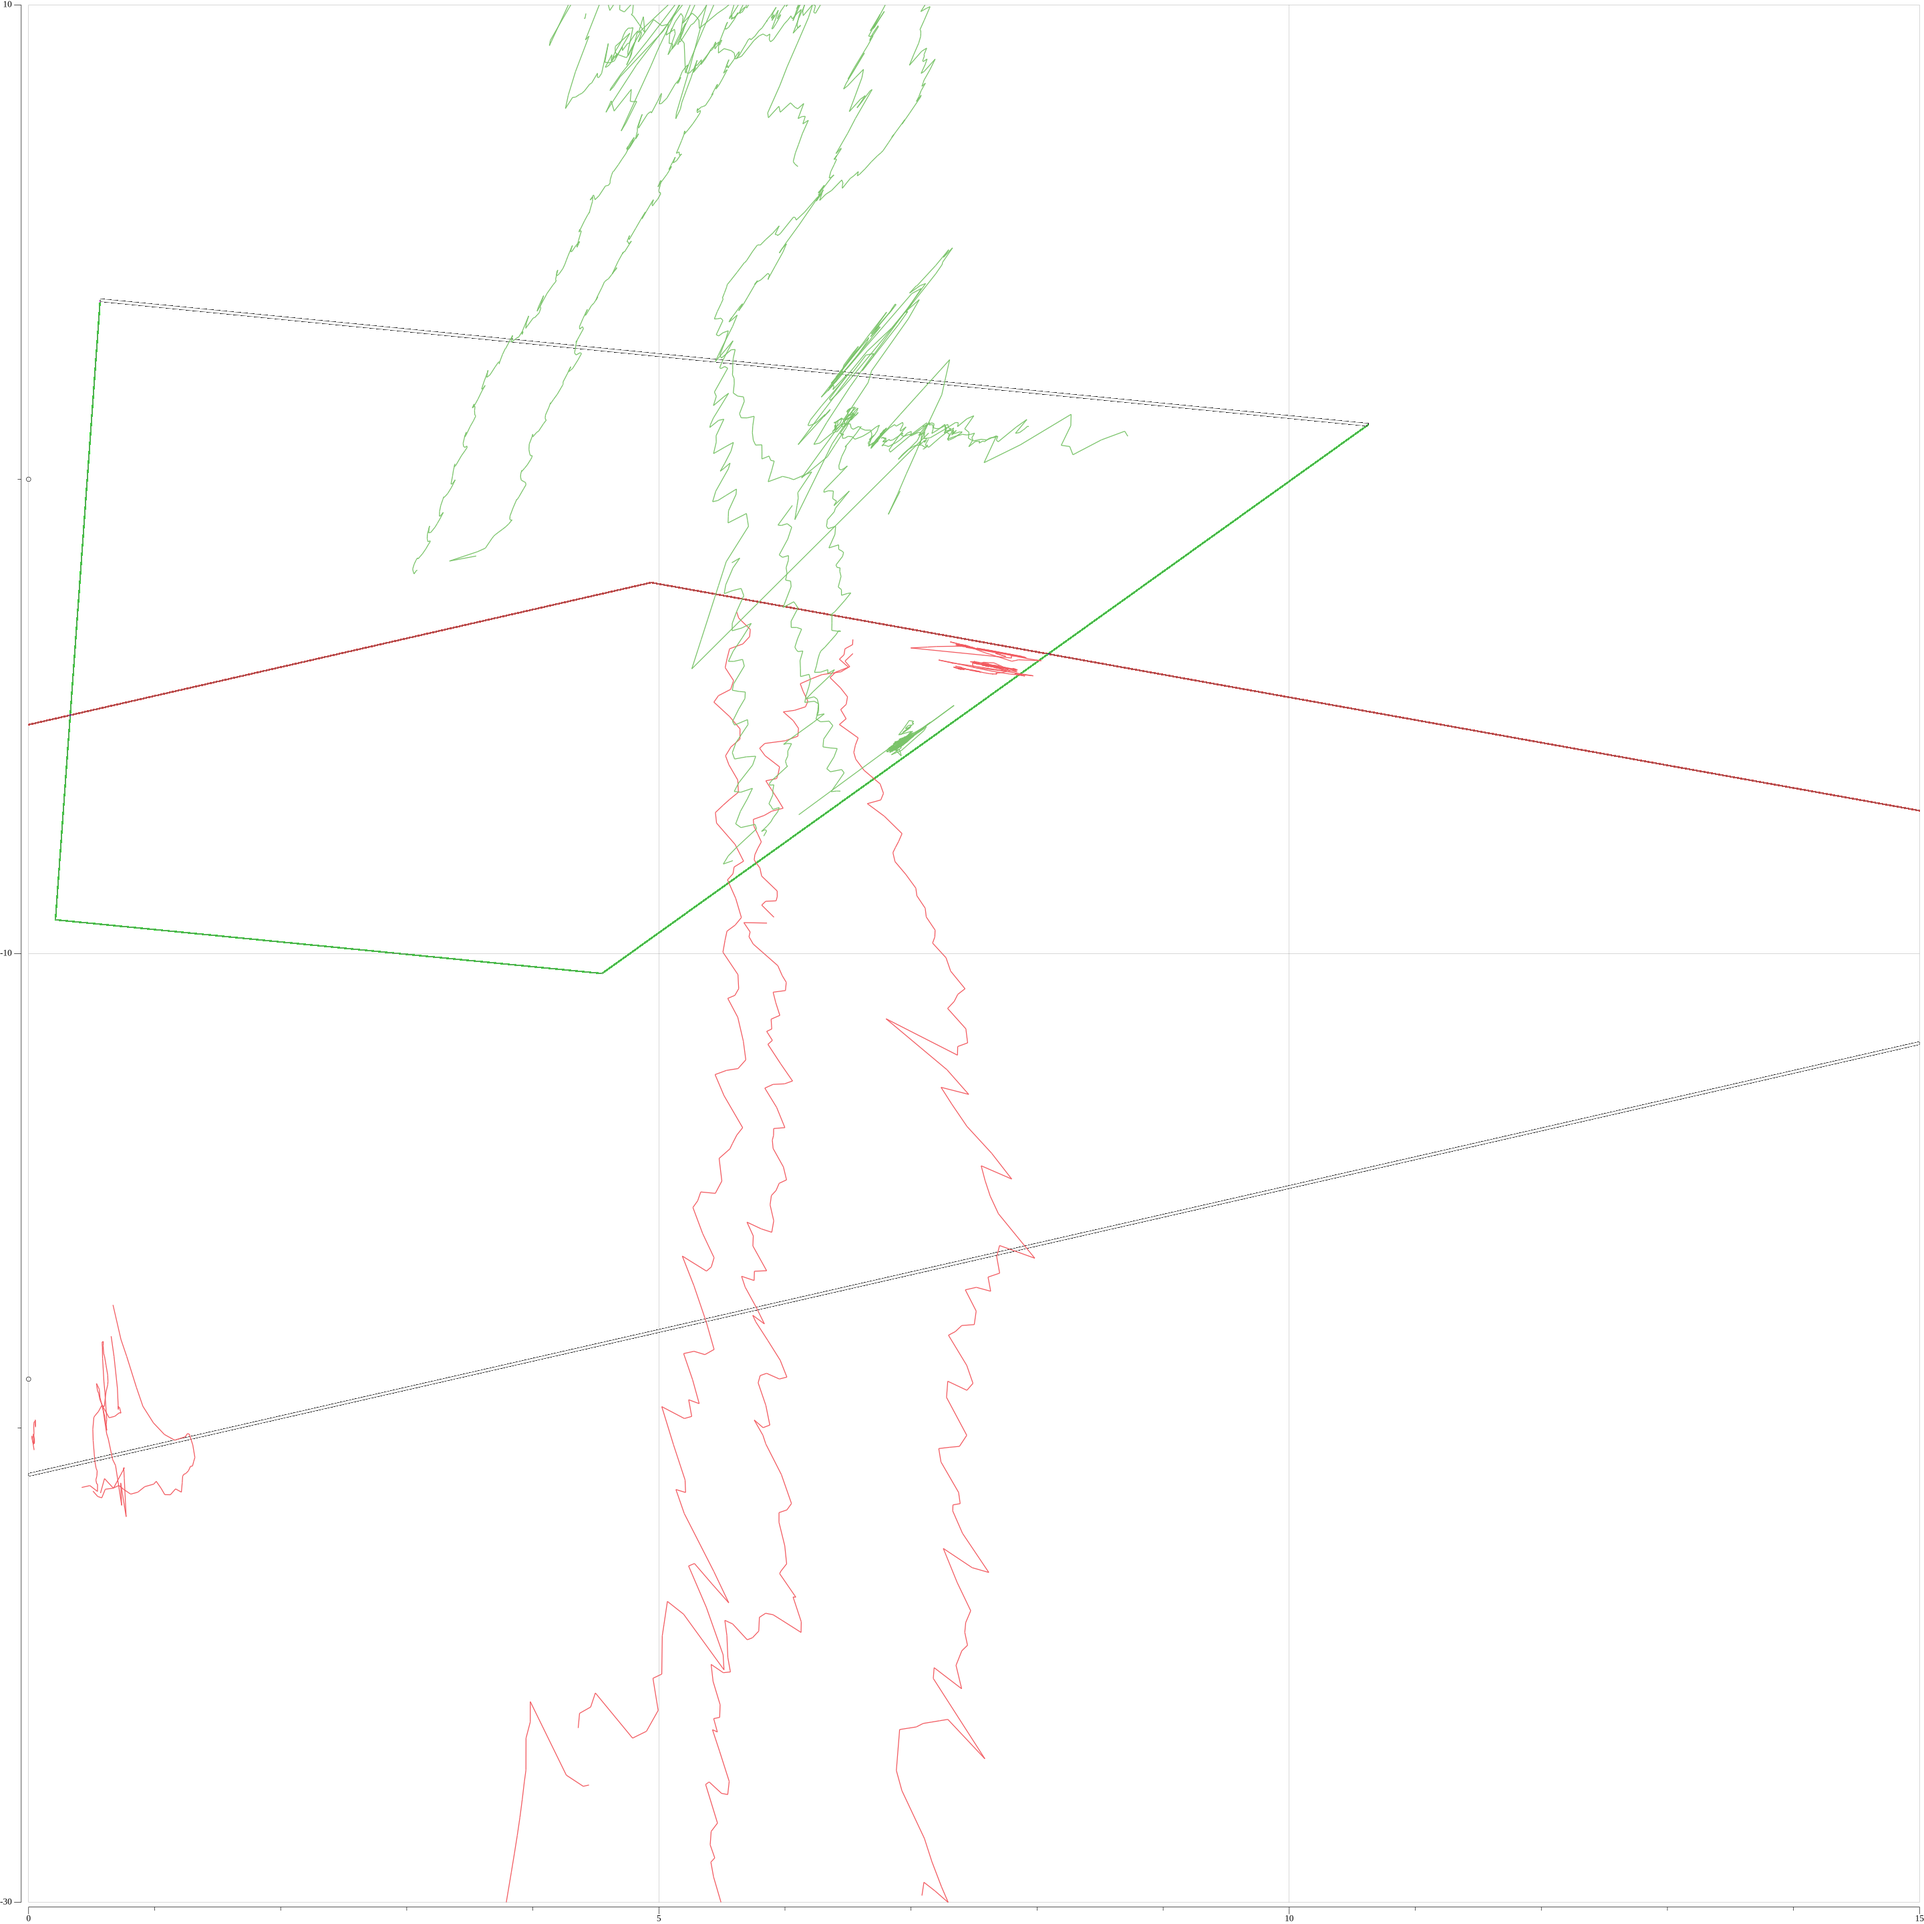
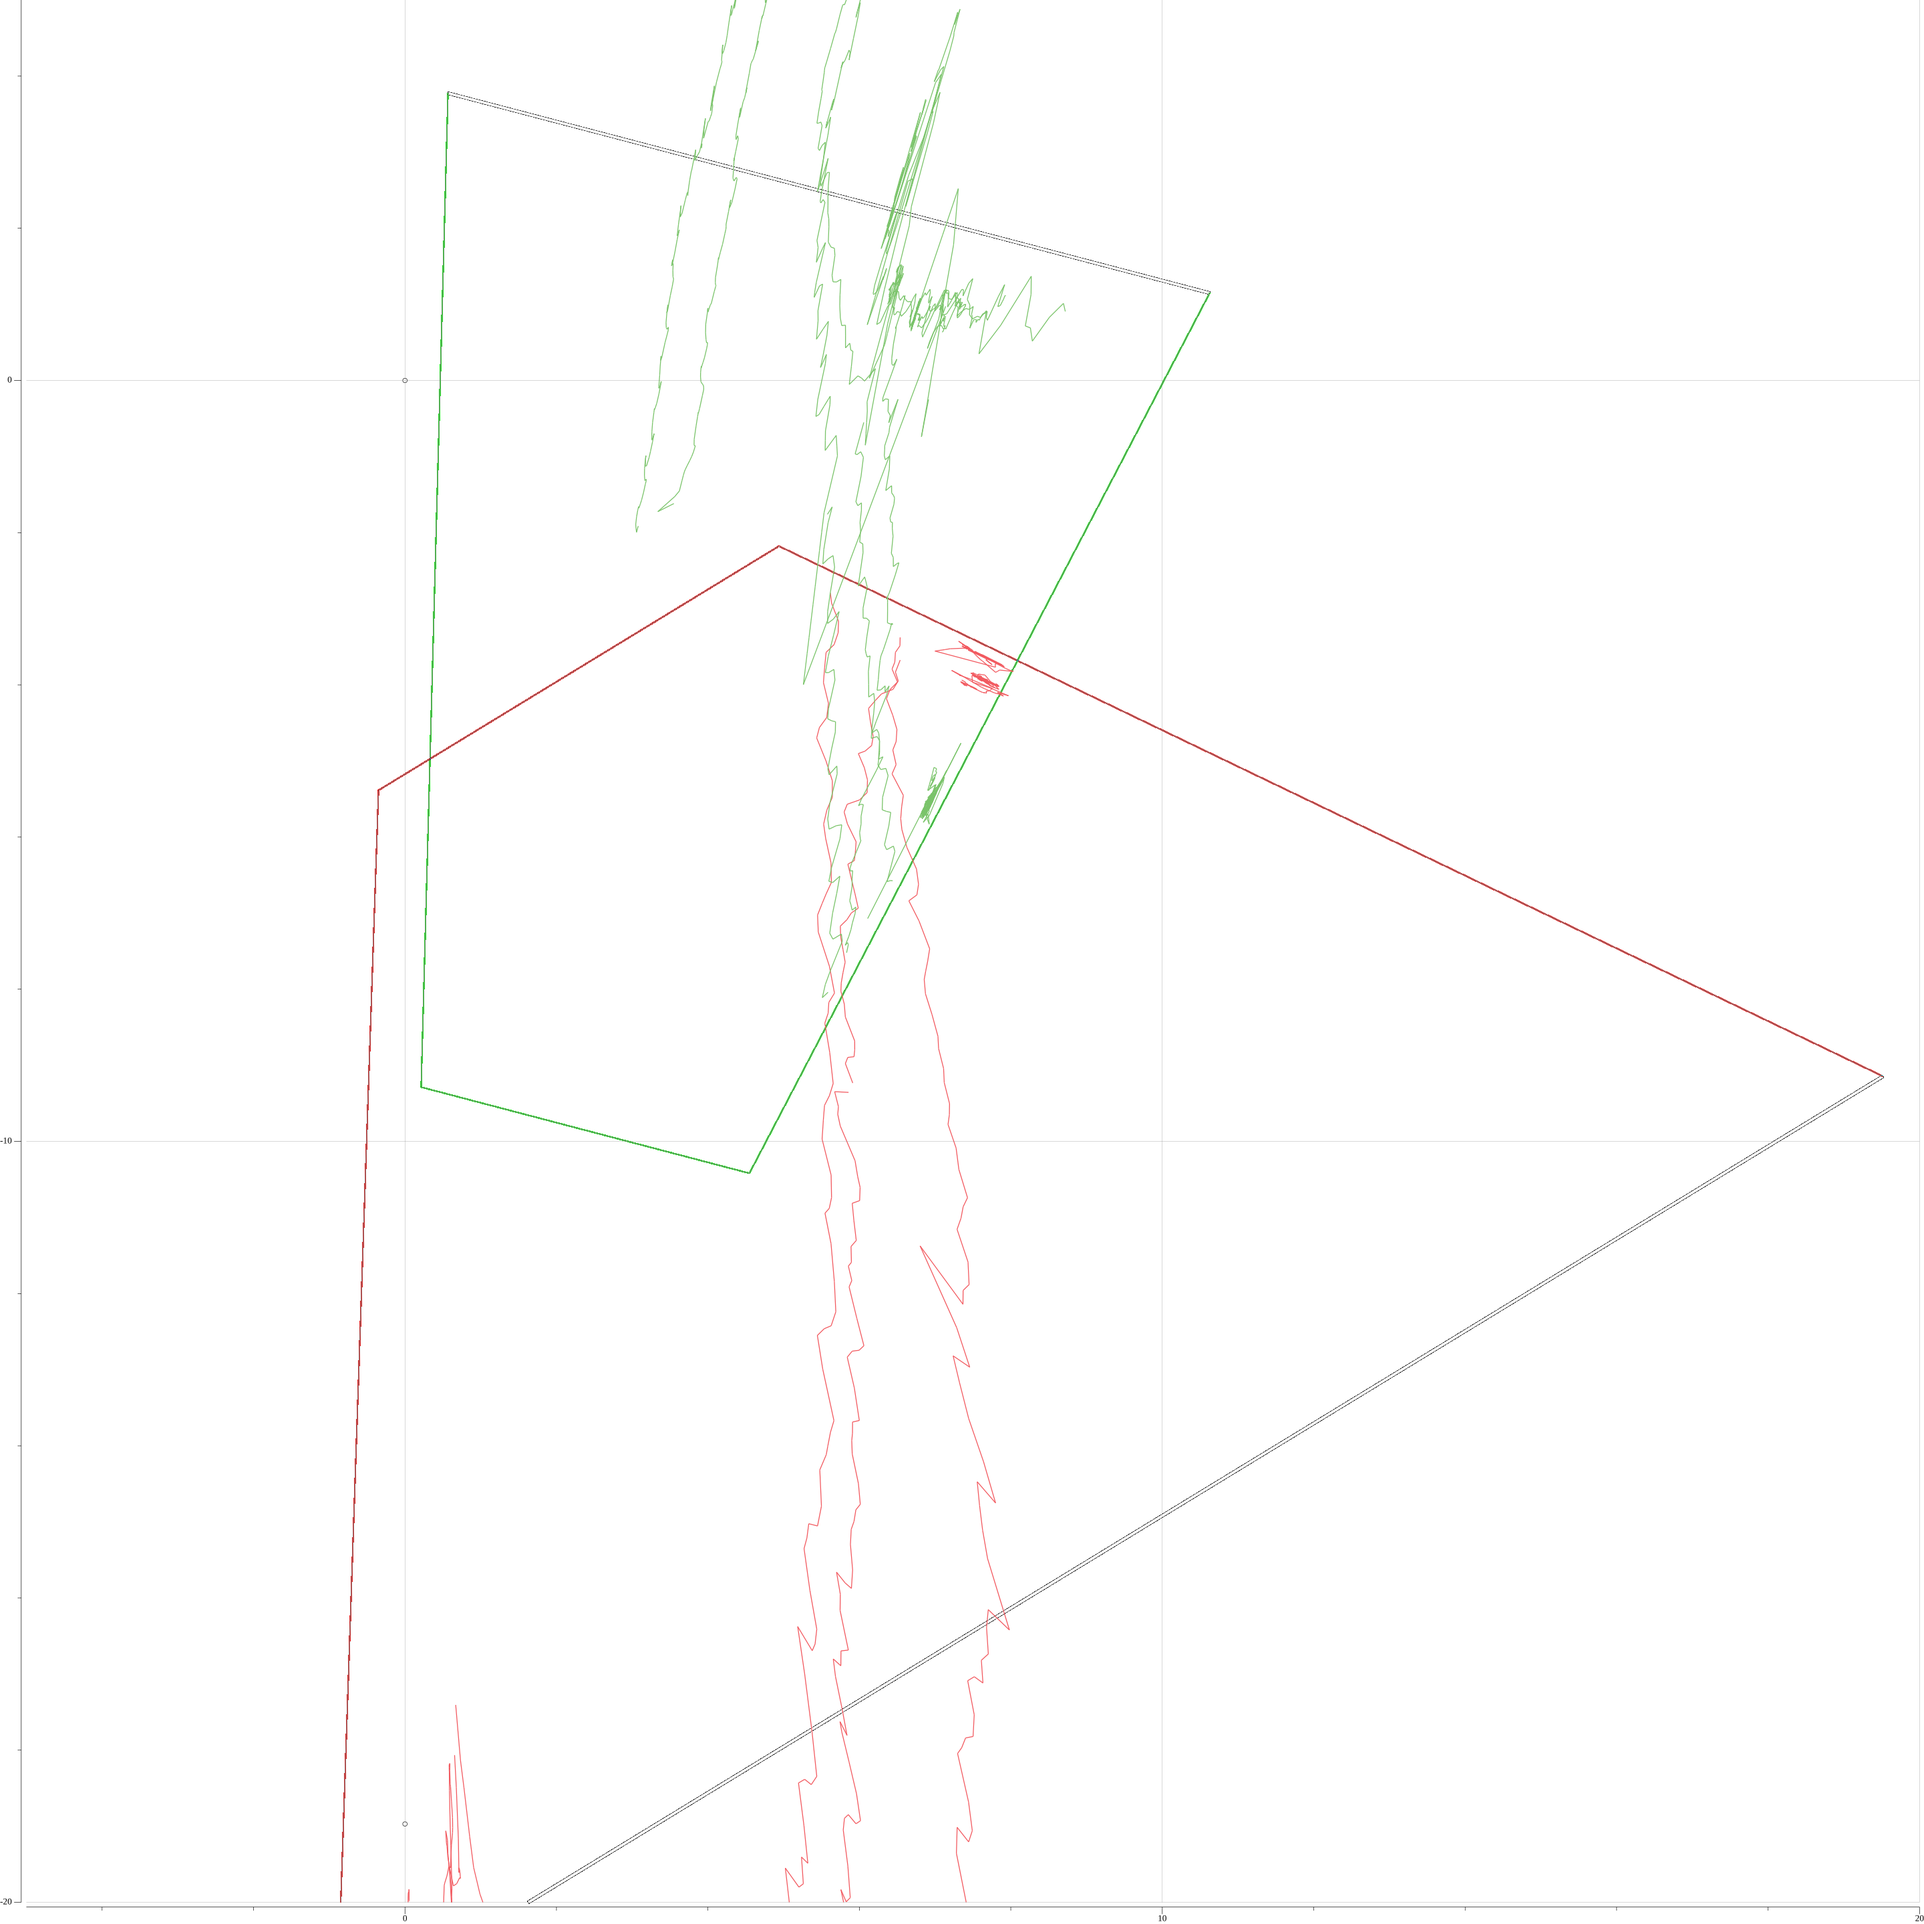
add before.png

Changed region(s): [[0.375, 0.0312, 0.5312, 0.4688], [0.3125, 0.0, 0.4375, 0.0625]]

diff --git a/main.go b/main.go
@@ -48,7 +48,7 @@ func main() {
 
 		cs = vtrack.NewCameraSystem(config)
 		cs.Tune(tconfig)
-		// cs.Plot(fmt.Sprintf("%s/%s", outDir, "after"), []vannotate.Series{sr1}, []vannotate.Series{sr2})
+		// cs.Plot(fmt.Sprintf("%s/%s", outDir, "after.png"), []vannotate.Series{sr1}, []vannotate.Series{sr2})
 
 		// Save on local
 		newFile, err := json.MarshalIndent(cs, "", "\t")

diff --git a/vtrack/camsys.go b/vtrack/camsys.go
@@ -176,10 +176,10 @@ func (cs CameraSystem) Plot(filePath string, srLists ...[]vannotate.Series) {
 	}
 
 	p.Add(plotter.NewGrid())
-	p.X.Max = 15
-	p.X.Min = 0
-	p.Y.Max = 10
-	p.Y.Min = -30
+	p.X.Max = -5
+	p.X.Min = +20
+	p.Y.Max = +5
+	p.Y.Min = -20
 
 	if err := p.Save(vg.Inch*30, vg.Inch*30, filePath); err != nil {
 		panic(err)
